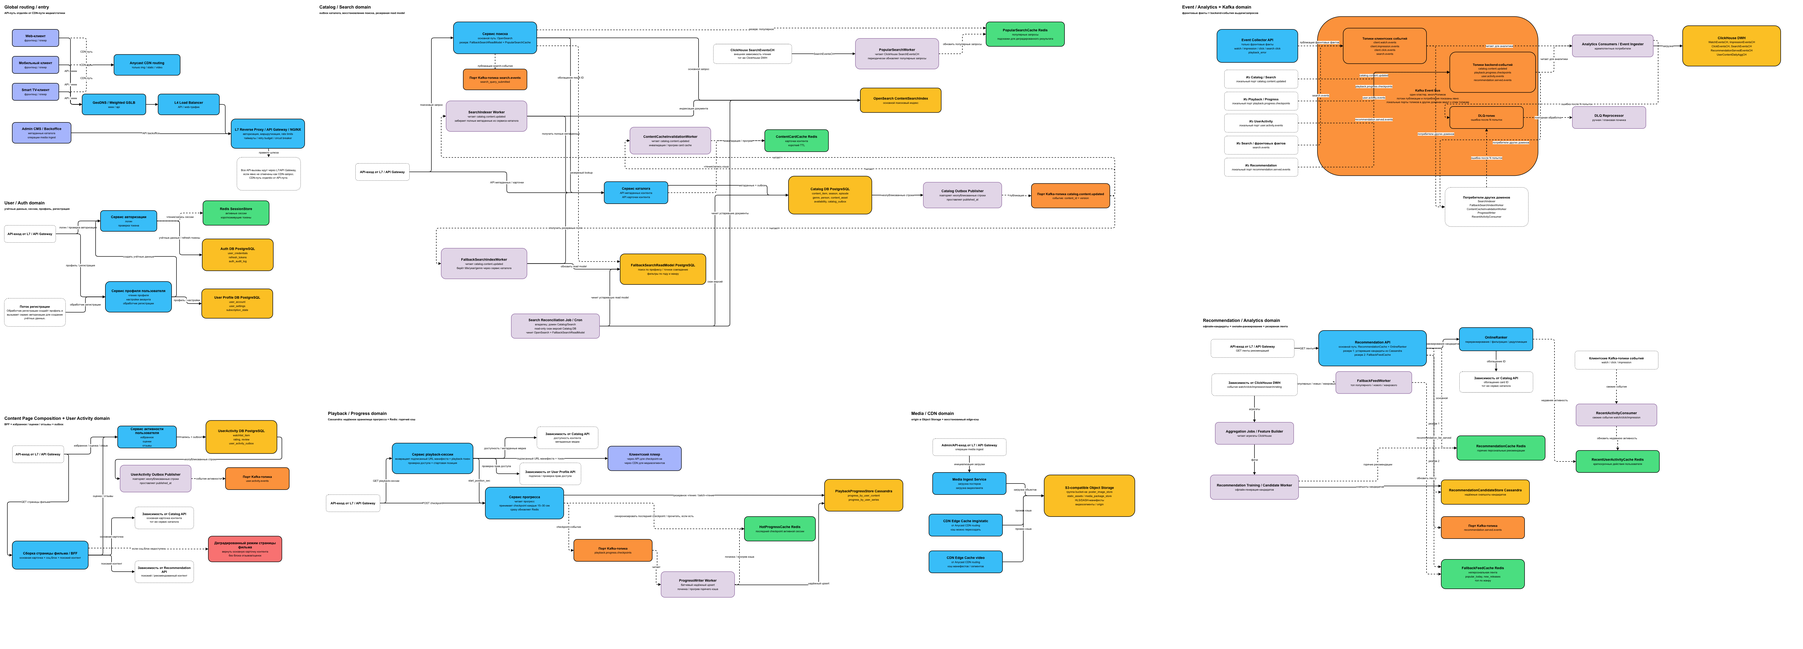
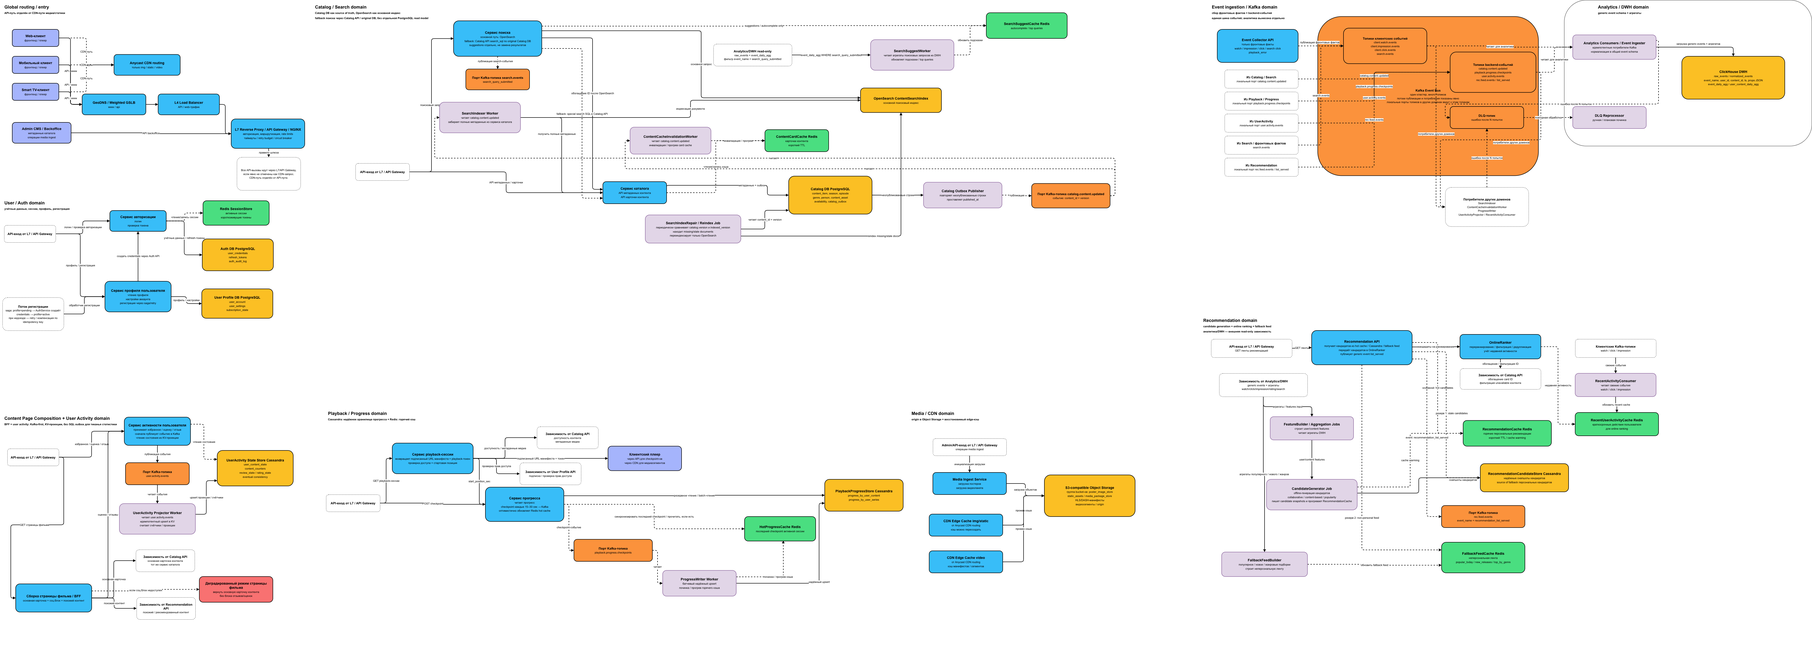
hw11 done

diff --git a/README.md b/README.md
@@ -840,28 +840,31 @@ graph TD
 
 ## Часть 9. Обеспечение надёжности
 
-Основной принцип: критичные пользовательские сценарии должны продолжать работать в деградированном режиме, а производные состояния — поиск, кэши, рекомендации, аналитика — должны восстанавливаться из источников истины.
+Основной принцип: критичные пользовательские сценарии должны продолжать работать в деградированном режиме, а производные состояния — поиск, кэши, рекомендации, аналитика и проекции активности — должны восстанавливаться из источников истины.
 
 | Риск / отказ | Архитектурное изменение | Как работает при отказе | Эффект для пользователя |
 |---|---|---|---|
 | Перегрузка контура сохранения прогресса просмотра | Выделен отдельный `Playback / Progress` контур: `Progress Service → Kafka playback.progress.checkpoints → ProgressWriter → Cassandra PlaybackProgressStore`; `Redis` используется как `HotProgressCache` | Частые checkpoint-события не пишутся напрямую в `PostgreSQL`. `Kafka` сглаживает поток, а `ProgressWriter` батчами обновляет `Cassandra`. При пике очередь накапливает события, а не валит OLTP-БД | Просмотр видео не ломается при всплеске нагрузки. Возможна задержка обновления позиции, но пользователь не теряет доступ к контенту |
 | Потеря нескольких последних checkpoint-ов | Для прогресса используется eventual consistency: `Cassandra` хранит durable-состояние, `Redis` — горячее состояние текущей сессии | Если часть checkpoint-ов потеряна, система откроет фильм или серию с последней durable-сохранённой позиции | Пользователь максимум начнёт просмотр на несколько секунд раньше или позже, но сервис продолжит работать |
 | Отказ `Redis HotProgressCache` | Read path устроен как `Redis → Cassandra fallback` | `Redis` не является источником истины. При отказе `Redis` `Progress Service` читает прогресс из `Cassandra`, а после восстановления кэш постепенно прогревается заново | Старт фильма или серии может стать чуть медленнее, но прогресс просмотра остаётся доступен |
-| Отставание или потеря событий индексации каталога | Добавлены `Catalog Outbox`, `SearchIndexer`, `FallbackSearchIndexWorker` и `Search Reconciliation Job` | При изменении фильма или серии запись фиксируется в `Catalog DB` и `catalog_outbox` в одной транзакции. `Catalog Outbox Publisher` отправляет `catalog.content.updated` в `Kafka`. `SearchIndexer` обновляет `OpenSearch`, а `FallbackSearchIndexWorker` обновляет fallback read model. `Search Reconciliation Job` периодически сверяет версии и чинит пропуски | Новый или изменённый контент появляется в поиске даже при временном сбое worker-а или consumer-а |
-| Отказ `OpenSearch` | Добавлен degraded search через `FallbackSearchReadModel PostgreSQL + PopularSearchCache Redis` | Если `OpenSearch` недоступен, `Search Service` использует упрощённую read model для поиска по названию, году и жанру, а также популярные запросы из `PopularSearchCache` | Пользователь всё ещё может найти контент по базовым полям, хотя качество поиска хуже |
-| Устаревание fallback-поиска | `Search Reconciliation Job` чинит не только `OpenSearch`, но и `FallbackSearchReadModel` | Если `FallbackSearchIndexWorker` пропустил событие, reconciliation job сверяет версии с `Catalog DB` и обновляет fallback read model | Даже degraded search не остаётся навсегда устаревшим |
-| Отказ recommendation pipeline или задержка пересчёта рекомендаций | Рекомендации разделены на offline и online части: `ClickHouse → Aggregation Jobs → Recommendation Training / Candidate Worker → RecommendationCandidateStore Cassandra / RecommendationCache Redis`; отдельно используются `OnlineRanker` и `FallbackFeedCache` | Если персональные рекомендации в `Redis` недоступны, `Recommendation API` берёт stale candidates из `Cassandra`. Если персонального snapshot-а нет, используется неперсональный fallback feed: популярное, новинки, топ по жанрам | Главная страница не пустая. Пользователь получает менее персонализированную, но рабочую выдачу |
-| Потеря событий просмотров, кликов и показов | Все клиентские события идут через `Event Collector API → Kafka → Analytics Consumers → ClickHouse`; consumers идемпотентные, ошибки после retry уходят в `DLQ` | При временной ошибке `ClickHouse` или consumer-а событие повторяется. Если обработка невозможна после N retry, событие попадает в `DLQ topic` и может быть переобработано через `DLQ Reprocessor` | Аналитика и рекомендации могут обновиться позже, но основной просмотр, каталог и карточки не падают |
-| Некорректное смешение факта выдачи рекомендаций и факта клика | `Recommendation API` пишет только `recommendation.served.events`, а реальные клики, показы и просмотры идут с фронта через `Event Collector API` | Backend фиксирует факт выдачи списка, а frontend фиксирует фактическое поведение пользователя | Данные для аналитики и рекомендаций становятся корректнее: система различает “рекомендация была выдана” и “пользователь реально увидел или кликнул” |
+| Перегрузка пользовательской активности, лайков, оценок и счётчиков | `UserActivity Service` сначала публикует событие в `Kafka user.activity.events`, затем `UserActivity Projector Worker` строит проекции в `UserActivity State Store Cassandra` | Частые действия пользователя не пишутся напрямую в SQL-БД. `Kafka` принимает поток событий, а projector идемпотентно обновляет `user_content_state`, `content_counters`, `review_state`, `rating_state` | Лайки, оценки, отзывы и счётчики не ломают основную OLTP-БД. Возможна небольшая задержка отображения нового состояния |
+| Отставание KV-проекции пользовательской активности | Состояние активности хранится как производная Cassandra-проекция из Kafka-событий | Если projector временно отстал, событие уже принято в `Kafka` и будет обработано позже. Повторная обработка безопасна за счёт идемпотентного upsert-а | Пользовательское действие не теряется. Счётчик, оценка или состояние кнопки могут обновиться с задержкой |
+| Отставание или потеря событий индексации каталога | Используются `Catalog Outbox`, `Catalog Outbox Publisher`, `SearchIndexer Worker` и `SearchIndexRepair / Reindex Job` | При изменении фильма или серии запись фиксируется в `Catalog DB` и `catalog_outbox` в одной транзакции. `Catalog Outbox Publisher` отправляет `catalog.content.updated` в `Kafka`. `SearchIndexer Worker` обновляет `OpenSearch`. Если индекс отстал, `SearchIndexRepair / Reindex Job` сравнивает `catalog.version` и `indexed_version`, находит missing/stale documents и переиндексирует `OpenSearch` | Новый или изменённый контент появляется в поиске даже при временном сбое worker-а или consumer-а |
+| Отказ `OpenSearch` | Добавлен degraded search через `Catalog API search_sql` по original `Catalog DB` | Если `OpenSearch` недоступен, `Search Service` вызывает специальный fallback-запрос в `Catalog API`, который ищет по базовым полям в основной `Catalog DB`: название, год, жанр, тип контента | Пользователь всё ещё может найти контент по базовым полям, хотя качество поиска хуже |
+| Отказ поисковых подсказок | `SearchSuggestCache Redis` используется только для autocomplete / top queries | Если `SearchSuggestCache` недоступен, отключаются или упрощаются поисковые подсказки. Сам поиск продолжает работать через `OpenSearch`, а при его отказе — через `Catalog API search_sql` | Пользователь может не увидеть подсказки при вводе запроса, но основной поиск остаётся доступен |
+| Отказ recommendation pipeline или задержка пересчёта рекомендаций | Рекомендации разделены на offline и online части: `Analytics/DWH → FeatureBuilder / Aggregation Jobs → CandidateGenerator Job → RecommendationCandidateStore Cassandra / RecommendationCache Redis`; отдельно используются `OnlineRanker` и `FallbackFeedBuilder` | Если персональные рекомендации в `Redis` недоступны, `Recommendation API` берёт stale candidates из `Cassandra`. Если персонального snapshot-а нет, используется неперсональный fallback feed: популярное, новинки, топ по жанрам | Главная страница не пустая. Пользователь получает менее персонализированную, но рабочую выдачу |
+| Потеря событий просмотров, кликов, показов и поисковых запросов | Все клиентские события идут через `Event Collector API → Kafka → Analytics Consumers / Event Ingester → ClickHouse DWH`; consumers идемпотентные, ошибки после retry уходят в `DLQ` | При временной ошибке `ClickHouse` или consumer-а событие повторяется. Если обработка невозможна после N retry, событие попадает в `DLQ topic` и может быть переобработано через `DLQ Reprocessor` | Аналитика и рекомендации могут обновиться позже, но основной просмотр, каталог и карточки не падают |
+| Некорректное смешение факта выдачи рекомендаций и факта клика | События хранятся в DWH как generic events: например `recommendation_list_served`, `impression`, `click`, `watch`, `rating`, `search_query_submitted` | Backend фиксирует факт формирования/выдачи списка рекомендаций, а frontend фиксирует фактические показы, клики и просмотры. В `ClickHouse DWH` это хранится через `event_name`, `user_id`, `content_id`, `ts`, `props JSON` | Данные для аналитики и рекомендаций становятся корректнее: система различает “рекомендация была выдана” и “пользователь реально увидел или кликнул” |
+| Привязка DWH к конкретным сервисам | `Analytics / DWH domain` хранит события в общей схеме: `raw_events / normalized_events`, `event_daily_agg`, `user_content_daily_agg` | DWH не содержит отдельных таблиц под конкретный сервис. Разные сервисы пишут события в общий формат через `event_name` и `props JSON`, а дальше строятся агрегаты | Аналитика проще расширяется: появление нового события не требует проектировать отдельную таблицу под каждый сервис |
 | Каскадный отказ внутренних сервисов | `timeouts`, `retry budget`, `circuit breaker` и `rate limits` настроены на уровне `L7 API Gateway / NGINX`, а не как отдельные сервисы перед каждым микросервисом | Если `Search`, `Recommendation` или `UserActivity` начинают отвечать медленно, Gateway ограничивает обращения и включает degraded response | Один зависший сервис не утягивает весь API. Карточка фильма или главная страница открываются в урезанном режиме |
-| Отказ блока отзывов и рейтингов | `Movie Page Composition / BFF` умеет отдавать core content card без social-блока | Если `UserActivity Service` недоступен, BFF не ждёт его бесконечно и возвращает карточку фильма без отзывов и рейтингов | Пользователь может открыть карточку и начать просмотр, хотя отзывы и рейтинг временно скрыты |
+| Отказ блока отзывов и рейтингов | `Movie Page Composition / BFF` умеет отдавать core content card без social-блока | Если `UserActivity Service` или его Cassandra-проекция недоступны, BFF не ждёт их бесконечно и возвращает карточку фильма без отзывов, рейтингов или пользовательского состояния | Пользователь может открыть карточку и начать просмотр, хотя отзывы и рейтинг временно скрыты |
 | Отказ части CDN edge | CDN edge cache считается расходуемым слоем, origin хранится в `S3-compatible Object Storage` | При отказе edge-узла трафик уходит на другой edge. При cache miss постер, статика, manifest или video segment подтягиваются из object storage origin | Может вырасти latency или снизиться hit ratio, но медиаобъекты не теряются |
 | Отказ object storage origin или риск потери медиа | `S3-compatible Object Storage` используется как durable origin для `poster_image_store`, `static_assets`, `media_package_store`, `HLS/DASH manifests`, `video segments origin`; для него подразумеваются versioning, replication и backup-политики | При проблеме с edge-кэшем данные восстанавливаются из origin. При логической или физической проблеме origin восстанавливается из версий, репликации или backup | Пользователь может столкнуться с временной деградацией выдачи медиа, но контент не считается потерянным |
-| Логическая ошибка при обновлении каталога | `Catalog DB` остаётся master-источником, а `OpenSearch`, `Redis cache` и `FallbackSearchReadModel` считаются производными хранилищами | При ошибке исправляется или откатывается master-состояние в `Catalog DB`, после чего производные индексы и кэши пересобираются через outbox, reconciliation и cache invalidation | Исправляется источник истины, а поисковые индексы и кэши догоняются автоматически |
+| Логическая ошибка при обновлении каталога | `Catalog DB` остаётся master-источником, а `OpenSearch` и `Redis cache` считаются производными хранилищами | При ошибке исправляется или откатывается master-состояние в `Catalog DB`, после чего `OpenSearch` и кэши догоняются через outbox, reindex job и cache invalidation | Исправляется источник истины, а поисковые индексы и кэши пересобираются автоматически |
 | Отказ auth-контура | Auth считается критическим сценарием. Сессии лежат в `Redis SessionStore`, credentials — в `Auth DB PostgreSQL`; для уже выданных валидных токенов возможна работа в пределах TTL | Новые логины могут быть ограничены, но уже авторизованные пользователи с валидным токеном не разлогиниваются мгновенно | Массовый мгновенный разлогин не происходит, но новые auth-операции могут быть временно ограничены |
-| Ошибки асинхронных worker-ов | Для `SearchIndexer`, `FallbackSearchIndexWorker`, `ContentCacheInvalidationWorker`, `ProgressWriter`, `AnalyticsConsumer`, `RecentActivityConsumer`, `Recommendation jobs` используются retry, идемпотентность и `DLQ` | Временные сбои обрабатываются retry. Неразобранные события уходят в `DLQ topic`, затем могут быть переобработаны через `DLQ Reprocessor` | Система деградирует по задержке обновления индексов, аналитики и рекомендаций, а не по доступности основного продукта |
-| Зависание или отставание outbox publisher-ов | `Catalog Outbox Publisher` и `UserActivity Outbox Publisher` повторно читают неопубликованные строки outbox и помечают `published_at` только после успешной публикации | Если publisher временно упал, outbox-строки остаются неопубликованными и будут отправлены после восстановления | Изменения каталога и пользовательские действия не теряются как события; они доезжают позже |
-| Отказ `RecentUserActivityCache` | Свежие действия пользователя хранятся в `RecentUserActivityCache Redis`, но рекомендации могут работать по stale candidates и fallback feed | Если recent cache недоступен, `OnlineRanker` теряет часть свежего контекста, но `Recommendation API` может использовать durable candidates из `Cassandra` или fallback feed | Рекомендации становятся менее точными, но блок рекомендаций остаётся рабочим |
+| “Недоезд” при регистрации пользователя | Регистрация оформлена как saga/retry flow между `User Service` и `Auth Service` | Сначала профиль создаётся в промежуточном состоянии, затем через `Auth API` создаются credentials. При сбое выполняется retry или компенсация, чтобы не оставить пользователя в состоянии “профиль есть, а войти нельзя” | Регистрация становится устойчивее к частичному отказу одного из сервисов |
+| Ошибки асинхронных worker-ов | Для `SearchIndexer Worker`, `ContentCacheInvalidationWorker`, `ProgressWriter`, `Analytics Consumers`, `UserActivity Projector Worker`, `FeatureBuilder / Aggregation Jobs`, `CandidateGenerator Job` используются retry, идемпотентность и `DLQ` | Временные сбои обрабатываются retry. Неразобранные события уходят в `DLQ topic`, затем могут быть переобработаны через `DLQ Reprocessor` | Система деградирует по задержке обновления индексов, аналитики, активности и рекомендаций, а не по доступности основного продукта |
+| Зависание или отставание outbox publisher-а каталога | `Catalog Outbox Publisher` повторно читает неопубликованные строки `catalog_outbox` и помечает `published_at` только после успешной публикации | Если publisher временно упал, outbox-строки остаются неопубликованными и будут отправлены после восстановления. Для `UserActivity` outbox не используется: активность сначала публикуется в `Kafka`, а затем `UserActivity Projector Worker` строит KV/Cassandra-проекции | Изменения каталога не теряются как события; пользовательская активность доезжает через Kafka-first pipeline |
 
 ### Инфраструктурный фон
 
